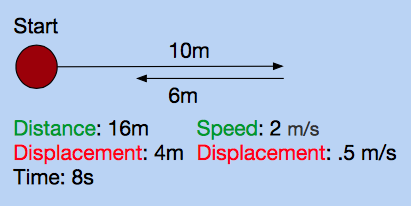
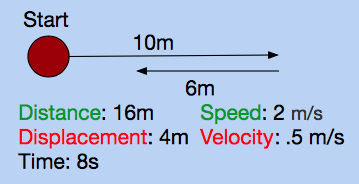
update

Changed region(s): [[0.0306, 0.163, 0.9805, 0.9239], [0.0306, 0.0543, 0.2145, 0.163]]

diff --git a/svv.html b/svv.html
@@ -115,20 +115,20 @@ ul {
 <ul>1. <br />
 	<b>Speed: 5 meters per second<br />
 	Velocity: -5 meters per second<br /></b>
-	It travels 5 meters, so that is its distance. The positive 5 meters from where it started off, so that is its displacement.
+	It travels 5 meters, so that is its distance. It falls down 5 meters, so the displacement is -5 meters by convention. To find the speed and velocity, divide the distance and displacement by time, respectively.
 </ul>
 <ul>2. <br />
-	<b>Distance: 80 kilometers<br />
-	Displacement: 20 kilometers<br /></b>
-	It travels 50 kilometers, then 30. It's total distance traveled is 80 kilometers. However, it travels 30 kilometers in the opposite direction it was initially flying in, so the distance between where it started and finished (aka displacement) is 50 - 30 = 20 kilometers.
+	<b>Speed: 10 meters per second<br />
+	Velocity: -3.33 meters per second<br /></b>
+	First find the distance and displacement. The distance is 120 meters, while the displacement is -40 meters. Then divide both by 12 seconds, to get average speed and velocity.
 </ul>
-<img src="images/kp2.png">
+<img src="images/svv4.png">
 <ul>3. <br />
-	<b>Distance: 1 kilometer<br />
-	Displacement: 0 kilometers<br /></b>
-	He runs 1 kilometer, so that is his distance. However, he has not moved at all with respect to where he started, so his displacement is 0.
+	<b>Time: 1 second<br />
+	Velocity: 0 meters per second<br /></b>
+	The athlete jump up to two meters, so by the time he lands, he has traveled 4 meters. We want to solve for time, and we know speed and distance. Since speed is distance over time, time is distance over speed. Dividing 4 by 4 gives us one second. Since the athlete ends up where he started, his displacement is 0, and therefore his velocity is zero.
 </ul>
-<img src="images/kp3.png">
+<img src="images/svv5.png">
 <ul>4. <br />
 	<b>Distance: 70 meters<br />
 	Displacement: 50 meters<br /></b>
